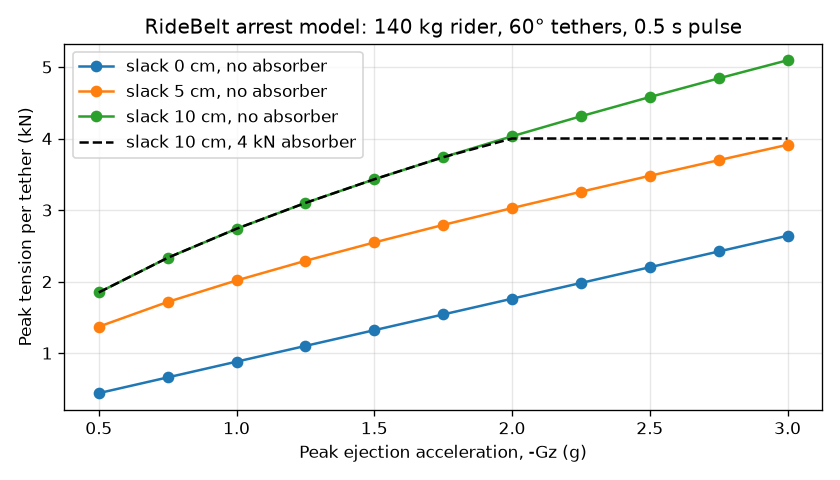
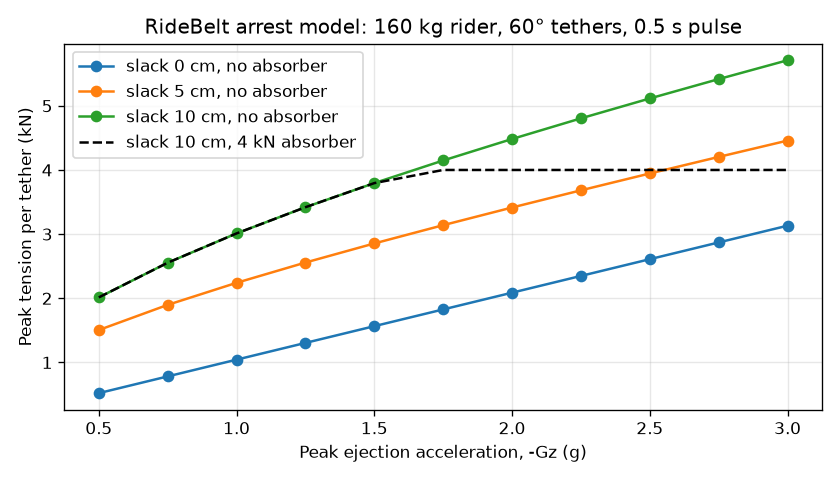
Hee-Lee Oss: Raise the design rider mass toward 160 kg (REQ-L2) and size to the 99th percentile of both sexes (REQ-F1)

diff --git a/docs/analysis/arrest_model.py b/docs/analysis/arrest_model.py
@@ -37,7 +37,7 @@ HERE = Path(__file__).parent
 
 @dataclass
 class Params:
-    m: float = 140.0          # kg, design rider mass (95th pct US male, heaviest age band; ride-acceleration-data.md)
+    m: float = 160.0          # kg, design rider mass (about the US civilian P99, NHANES; research/anthropometry-adult.md)
     A: float = 2.0            # g, peak net ejection acceleration (-Gz)
     T_p: float = 0.5          # s, pulse duration
     slack: float = 0.05       # m, free travel before the tethers take load
@@ -117,7 +117,7 @@ def angle_sweep() -> list[dict]:
     return rows
 
 
-def inverted_hang(m: float = 140.0) -> list[dict]:
+def inverted_hang(m: float = 160.0) -> list[dict]:
     """Static tether tension for a rider hanging inverted (-1 Gz), per tether."""
     return [{"theta_deg": th, "tension_per_tether_N": round(m * G / (2 * math.sin(math.radians(th))))}
             for th in (30, 45, 60, 75, 90)]
@@ -136,11 +136,11 @@ if __name__ == "__main__":
         w = csv.DictWriter(f, fieldnames=list(rows[0]))
         w.writeheader()
         w.writerows(rows)
-    print("## Main sweep (theta = 60 deg, m = 140 kg)\n")
+    print("## Main sweep (theta = 60 deg, m = 160 kg)\n")
     print(md(rows))
     print("\n## Tether angle sweep (A = 2 g, T_p = 0.5 s, slack = 5 cm)\n")
     print(md(angle_sweep()))
-    print("\n## Inverted hang, static (m = 140 kg)\n")
+    print("\n## Inverted hang, static (m = 160 kg)\n")
     print(md(inverted_hang()))
 
     try:
@@ -157,7 +157,7 @@ if __name__ == "__main__":
         ax.plot(np.linspace(0.5, 3.0, 11), peaks, "k--", label="slack 10 cm, 4 kN absorber")
         ax.set_xlabel("Peak ejection acceleration, -Gz (g)")
         ax.set_ylabel("Peak tension per tether (kN)")
-        ax.set_title("RideBelt arrest model: 140 kg rider, 60° tethers, 0.5 s pulse")
+        ax.set_title("RideBelt arrest model: 160 kg rider, 60° tethers, 0.5 s pulse")
         ax.grid(alpha=0.3)
         ax.legend()
         fig.tight_layout()

diff --git a/docs/analysis/load-analysis.md b/docs/analysis/load-analysis.md
@@ -9,7 +9,7 @@ Static case: rider mass m, peak ejection-direction acceleration a (in g).
     F_static = m × a × g
 
 Worked example, for illustration only. Replace with real ride data.
-- m = 136 kg (300 lb rider plus clothing; original placeholder, now replaced by **140 kg** design mass, see §2b)
+- m = 136 kg (300 lb rider plus clothing; original placeholder, since replaced by the **160 kg** design mass, see §2b)
 - a = 2 g in the ejection direction (placeholder; get the ride-specific −Gz or lateral peak from F2291 envelopes or measured accelerometer data)
 - F_static ≈ 136 × 2 × 9.81 ≈ **2.7 kN**, shared between two tethers
 
@@ -29,34 +29,34 @@ Design peak load (TBD) = F_static × dynamic factor. Breaking strength ≥ 5 × 
 | A4 | FEA of the RAS anchor and its mounting bracket | Any FEA package |
 | A5 | Wrap-strap friction and slip on round and square members | Test-driven, with a hand calculation (capstan equation) |
 
-## 2a. A2 results: arrest model v0.1 (2026-10-14)
-Script: [arrest_model.py](arrest_model.py). Full sweep: `arrest_results.csv`; plot: `arrest_sweep.png`. (The table below was produced at 136 kg; the script now defaults to the 140 kg design mass, about 3% higher. See §2b for the checked design cases.)
+## 2a. A2 results: arrest model v0.1 (first run 2026-10-14; re-run at 160 kg 2026-10-15)
+Script: [arrest_model.py](arrest_model.py). Full sweep: `arrest_results.csv`; plot: `arrest_sweep.png`. All figures below are for the **160 kg** design rider (task `ridebelt-requirements-003`; the first run used a 136 kg placeholder).
 
-**Model:** 1-DOF, 136 kg rider (whole-body mass, conservative); half-sine ejection pulse (−Gz) of amplitude A and duration T_p; two side tethers at angle θ; webbing about 8% elongation at 11 kN; body and belt compliance k_b = 100 kN/m and damping 1.5 kN·s/m (**assumptions to replace with ATD data**); optional energy absorber with a force cap.
+**Model:** 1-DOF, 160 kg rider (whole-body mass, conservative); half-sine ejection pulse (−Gz) of amplitude A and duration T_p; two side tethers at angle θ; webbing about 8% elongation at 11 kN; body and belt compliance k_b = 100 kN/m and damping 1.5 kN·s/m (**assumptions to replace with ATD data**); optional energy absorber with a force cap.
 
 **Findings**
 | Finding | Evidence | Design consequence |
 |---|---|---|
-| **Slack is the dominant variable.** Dynamic factor ≈ 1.0–1.3 with zero slack; ≈ 2–3.4 with 5–10 cm | Main sweep | Make slack as small as possible. **Promote the self-retracting, inertia-locking tether** from open question to the preferred design; tighten REQ-L4's goal to ≤ 2 cm |
-| Peak tension per tether ≤ **4.9 kN** across all swept cases (A ≤ 2.5 g, slack ≤ 10 cm, θ = 60°) | Main sweep | Preliminary **design load 6 kN per tether → MBS ≥ 30 kN** (5:1) |
-| **Tether angle:** tension rises steeply below 45° (4.8 kN at 30° vs 2.95 kN at 60°, 2 g case), and excursion barely changes | Angle sweep | Keep the REQ-L7 window at **45–75°**, with a 60–75° target |
-| Excursion is dominated by **body/belt compliance**, not webbing stretch: about 3 cm at zero slack, 10 cm or more at 5 cm slack | Excursion column; k_b sensitivity | REQ-L4 should limit **total excursion** (slack + stretch + body compression), not just slack. Measure k_b in ATD tests (T-D2); belt padding stiffness is a design lever |
-| Stiffer body/belt coupling plus slack → **higher** peak force (k_b 400 kN/m, 5 cm slack: 4.4 kN vs 2.95 kN at 100 kN/m) | k_b sensitivity | Don't over-stiffen the belt; padding helps |
-| A **4 kN** absorber only acts in the worst cases (2–2.5 g, short pulse, 10 cm slack), capping tension at 4 kN with < 3 cm of stroke | Main sweep | Fit an absorber at **about 4 kN per tether** as a load cap. It makes the design load independent of the ride's exact acceleration profile |
-| **Inverted hang** (−1 Gz, static): 0.94 kN per tether at 45°, 0.77 kN at 60° | Inverted-hang table | Release-under-load rating **2 kN** (REQ-O7) gives ≥ 2× margin |
-| Peak force on the rider's pelvis is ≤ about 8.5 kN in the worst case, with no absorber and 10 cm slack | Main sweep | **Needs ATD validation** (T-D2). It's in the range of car lap-belt loads, but pelvic and abdominal tolerance under this load direction is unverified |
+| **Slack is the dominant variable.** Dynamic factor ≈ 1.0–1.4 with zero slack; ≈ 1.3–3.2 with 5–10 cm | Main sweep | Make slack as small as possible. **Promote the self-retracting, inertia-locking tether** from open question to the preferred design; tighten REQ-L4's goal to ≤ 2 cm |
+| Peak tension per tether ≤ **5.6 kN** across all swept cases (A ≤ 2.5 g, slack ≤ 10 cm, θ = 60°, k_b 100 kN/m); ≤ 3.1 kN with zero slack | Main sweep | Preliminary **design load 6 kN per tether → MBS ≥ 30 kN** (5:1) |
+| **Tether angle:** tension rises steeply below 45° (5.6 kN at 30° vs 3.4 kN at 60°, 2 g case), and excursion barely changes | Angle sweep | Keep the REQ-L7 window at **45–75°**, with a 60–75° target |
+| Excursion is dominated by **body/belt compliance**, not webbing stretch: about 3–4 cm at zero slack, 11 cm or more at 5 cm slack | Excursion column; k_b sensitivity | REQ-L4 should limit **total excursion** (slack + stretch + body compression), not just slack. Measure k_b in ATD tests (T-D2); belt padding stiffness is a design lever |
+| Stiffer body/belt coupling plus slack → **higher** peak force (at 136 kg in the first run: k_b 400 kN/m with 5 cm slack gave 4.4 kN vs 2.95 kN at 100 kN/m; see §2b for the 160 kg stiff-body cases) | k_b sensitivity | Don't over-stiffen the belt; padding helps |
+| A **4 kN** absorber only acts in the worst cases (2.5 g, short pulse, 10 cm slack), capping tension at 4 kN with about 6 cm of stroke | Main sweep | Fit an absorber at **about 4 kN per tether** as a load cap. It makes the design load independent of the ride's exact acceleration profile |
+| **Inverted hang** (−1 Gz, static): 1.11 kN per tether at 45°, 0.91 kN at 60° | Inverted-hang table | Release-under-load rating **2 kN** (REQ-O7) gives about 1.8× margin at 45° (2.2× at 60°) |
+| Peak force on the rider's pelvis is ≤ about 9.7 kN in the worst case, with no absorber and 10 cm slack | Main sweep | **Needs ATD validation** (T-D2). It's in the range of car lap-belt loads, but pelvic and abdominal tolerance under this load direction is unverified |
 
 ### 2b. Check against researched design cases (2026-10-14)
-Inputs from [research/ride-acceleration-data.md](../research/ride-acceleration-data.md): design rider mass **140 kg** (95th-percentile U.S. male, heaviest age band), with a 160 kg upper-bound check; proposed first rating **−2.0 g ejection** (pulse from 0.3 s up to 3 s), plus −1.0 g sustained (inverted stop). The F2291 −Gz limits themselves are in the paid standard and still unverified.
+Inputs: design rider mass **160 kg**, about the US civilian 99th percentile (NHANES P99: 155.8 kg men and 146.6 kg women in 2021–2023; 159.2 kg and 155.9 kg in 2017–2020; see [research/anthropometry-adult.md](../research/anthropometry-adult.md)). It replaces the earlier 140 kg value, which was only the 95th percentile of the heaviest US male age band. Load cases from [research/ride-acceleration-data.md](../research/ride-acceleration-data.md): proposed first rating **−2.0 g ejection** (pulse from 0.3 s up to 3 s), plus −1.0 g sustained (inverted stop). The F2291 −Gz limits themselves are in the paid standard and still unverified.
 
 | Case (−2.0 g, 60° tethers) | Peak tension per tether |
 |---|---|
-| 140 kg, slack ≤ 2 cm, any pulse length, k_b 100–400 kN/m | ≤ 3.5 kN |
-| 160 kg, slack ≤ 2 cm, worst (0.3 s, stiff body) | 3.96 kN |
+| 160 kg, slack ≤ 2 cm, 0.3 s, k_b 100 kN/m | 3.1 kN |
+| 160 kg, slack ≤ 2 cm, worst (0.3 s, stiff body k_b 400 kN/m) | 3.96 kN |
 | 160 kg, **10 cm slack**, 0.3 s, stiff body, **no absorber** | **7.7 kN** (exceeds the 6 kN design load) |
 | 160 kg, 10 cm slack, with a **4 kN absorber** | 4.0 kN (absorber stroke 6 cm; excursion 18 cm, which fails REQ-L4) |
 
-**Conclusion:** the **6 kN design load / 30 kN MBS holds**, provided slack is ≤ 2 cm (REQ-L4) **and** a 4 kN absorber is fitted as a backstop against misuse. Both are now required. Long or sustained pulses (≥ 1 s) behave like static loading (dynamic factor ≈ 1), so short pulses with slack are the governing case. Pendulum rides repeat the −Gz load on every swing, so add a **fatigue load case** (cycles TBD) for tethers, absorbers and anchors (RAS-CT3). Drop-tower braking (about +5 g into the seat) governs the **center strap's anti-submarine function**, not tether strength. Check it in T-D2.
+**Conclusion (unchanged by the 160 kg design mass):** the **6 kN design load / 30 kN MBS holds**, provided slack is ≤ 2 cm (REQ-L4) **and** a 4 kN absorber is fitted as a backstop against misuse. Both are now required. Long or sustained pulses (≥ 1 s) behave like static loading (dynamic factor ≈ 1), so short pulses with slack are the governing case. Pendulum rides repeat the −Gz load on every swing, so add a **fatigue load case** (cycles TBD) for tethers, absorbers and anchors (RAS-CT3). Drop-tower braking (about +5 g into the seat) governs the **center strap's anti-submarine function**, not tether strength. Check it in T-D2.
 
 **Limits of this model:** 1-DOF only (no rotation or jackknifing, no lateral or longitudinal loads, no submarining); assumed body compliance; pulse shapes are idealized. A3 (multibody/ATD simulation) and T-D2 (sled tests) replace it.
 

diff --git a/docs/research/ride-acceleration-data.md b/docs/research/ride-acceleration-data.md
@@ -151,7 +151,7 @@ Method: take the largest credible published or claimed −Gz for the class and r
 
 Envelope suggestion for the first prototype rating **[estimate]**: design to **−2.0 Gz** plus **−1.0 Gz sustained inverted**, ±2 g lateral, and 2 g forward. That covers every class above except +Gz submarining checks. It matches the 2 g placeholder in load-analysis.md, so no change is needed there yet.
 
-Example static load [derived]: m = 140 kg (see §5) × 2.0 g × 9.81 = **2.75 kN** total, shared by two tethers. Per REQ-L5 each tether alone must carry it.
+Example static load [derived]: m = 160 kg (see §5) × 2.0 g × 9.81 = **3.14 kN** total, shared by two tethers. Per REQ-L5 each tether alone must carry it.
 
 Open items before these numbers can be used:
 1. Buy F2291-26a and read the Section 6 −Gz, Gx and Gy envelopes and the restraint-class figure (Section 5). Replace the "highest found" column with the standard's limits: the ride itself is designed up to the standard's limit, not to published examples.
@@ -179,11 +179,11 @@ CDC/NCHS, *Anthropometric Reference Data for Children and Adults: United States,
 - Many major parks use **restraint fit** rather than a posted weight (e.g., Universal's Forbidden Journey has no maximum weight; the restraint must close) ([AJC](https://www.ajc.com/travel/how-big-too-big-some-theme-park-riders-fear-the-walk-shame/YN7JDzapFtPgi4cRAdjIPJ/)). Signage is not required unless the manufacturer's manual says so ([Fox 35](https://fox35orlando.com/news/state-senator-looking-to-take-action-to-make-amusement-rides-more-safe)).
 - A forum post quotes the withdrawn F1159 as using a 170 lb adult design weight or 12 lb per inch of hip width, whichever is greater ([CoasterBuzz](https://coasterbuzz.com/Forums/PostLink/398020)). This is **unverified**.
 
-### 5.3 Recommendation (preliminary)
-- **Design rider mass m = 140 kg** for REQ-L2. This is the 95th percentile of the heaviest U.S. male age band (139.9 kg) and covers the all-ages 95th (130.3 kg) plus about 4 kg of clothing and harness **[estimate]**. It also exceeds the posted ride limits found (130–136 kg).
-- **Upper rated user mass on the label: 140 kg.** Riders above this are outside the rating, even if the ride admits them by restraint fit.
-- REQ-F1 asks for sizing to the 99th-percentile male. Sizing (girth) and mass rating are separate. If marketing wants the mass rating to reach about the 99th percentile, use **m = 160 kg [estimate]**, which raises loads by 14%.
-- This replaces the 136 kg placeholder in load-analysis.md §1, after engineer review.
+### 5.3 Recommendation (preliminary; updated 2026-10-15)
+- **Design rider mass m = 160 kg** for REQ-L2. This is about the US civilian 99th-percentile body mass from NHANES (P99 155.8 kg men and 146.6 kg women in 2021–2023; 159.2 kg and 155.9 kg in 2017–2020), from [anthropometry-adult.md](anthropometry-adult.md). It replaces the earlier 140 kg value (the 95th percentile of the heaviest US male age band, 139.9 kg), which the civilian data showed to be too low. 160 kg leaves little margin for clothing above the 2017–2020 male P99 **[estimate]**. It is well above the posted ride limits found (130–136 kg).
+- **Upper rated user mass on the label: 160 kg.** Riders above this are outside the rating, even if the ride admits them by restraint fit.
+- Sizing (girth) and mass rating are separate. REQ-F1 now asks for sizing to the 1st–99th percentile of **both** sexes, because the largest hips are female.
+- Effect on loads: the arrest model was re-run at 160 kg (load-analysis.md §2a–2b). The 6 kN design load and 30 kN MBS still hold with slack ≤ 2 cm and the 4 kN absorber.
 
 ## 6. Sources not yet obtained (to buy or request)
 - ASTM F2291-26a (Sections 5 and 6, Annex A1, Appendix X1).

diff --git a/docs/requirements.md b/docs/requirements.md
@@ -9,7 +9,7 @@ Every requirement is numbered and testable. "TBD" values are set during Phase 1 
 | ID | Requirement | Verification |
 |---|---|---|
 | REQ-L1 | The system shall retain a rider through the worst sustained acceleration in the ASTM F2291 envelope for the ride class it is rated for, in every axis (±Gx, ±Gy, +Gz, and −Gz, i.e., ejection) | T-D1, T-D2 |
-| REQ-L2 | Minimum breaking strength of every load-path component ≥ 5 × design peak load. **Preliminary design load: 6 kN per tether → MBS ≥ 30 kN.** Basis: 140 kg design rider (160 kg checked), −2.0 g ejection rating, slack ≤ 2 cm, and a **required** per-tether energy absorber capping tension at 4 kN (load-analysis §2a–2b). Confirm against the F2291-26a limits and measured ride data | T-S1, T-S2 |
+| REQ-L2 | Minimum breaking strength of every load-path component ≥ 5 × design peak load. **Preliminary design load: 6 kN per tether → MBS ≥ 30 kN.** Basis: **160 kg design rider**, about the US civilian 99th-percentile body mass (NHANES P99 155.8–159.2 kg men, 146.6–155.9 kg women; [research/anthropometry-adult.md](research/anthropometry-adult.md)), −2.0 g ejection rating, slack ≤ 2 cm, and a **required** per-tether energy absorber capping tension at 4 kN (load-analysis §2a–2b). Confirm against the F2291-26a limits and measured ride data | T-S1, T-S2 |
 | REQ-L3 | Peak force transmitted to the rider during arrest shall stay below injury thresholds (pelvis, lumbar, abdomen; plus shoulder and thorax with the Shoulder Module or Integrated Harness). Thresholds TBD from ATD criteria | T-D2 |
 | REQ-L6 | Under every rated load case, the Hip Belt shall stay on the pelvis. Belt migration above the pelvic bones onto the abdomen ≤ TBD mm, measured on an ATD | T-D2, T-D3 |
 | REQ-L7 | Tether anchor angle shall load the belt down and rearward (TBD 45–75° from horizontal). The RAS anchor position and wrap-strap application guides shall enforce this | T-D3, RAS-CT0 |
@@ -21,7 +21,7 @@ Every requirement is numbered and testable. "TBD" values are set during Phase 1 
 ## Rider fit
 | ID | Requirement | Verification |
 |---|---|---|
-| REQ-F1 | Harness sizes shall cover 5th-percentile female to 99th-percentile male torso and thigh girth (sizes TBD) | T-F2 |
+| REQ-F1 | Belt and harness sizes shall fit the **1st to 99th percentile of both sexes** for hip and waist girth, thigh girth and torso length. Sizing basis: NHANES civilian girths (hip circumference P1–P99 about 84–156 cm; the largest hips are female) and ANSUR II for seated, thigh and torso dimensions. **ANSUR II upper percentiles are lower bounds**, because the military sample under-represents large bodies ([research/anthropometry-adult.md](research/anthropometry-adult.md)). Sizes TBD (`ridebelt-sizing-001`) | T-F2 |
 | REQ-F2 | Minimum rider height and mass for the Hip Belt and for each module: TBD. No use below the ride's own minimum | Labeling review |
 | REQ-F4 | The Hip Belt shall have a built-in position guide (e.g., contoured shape and a visual marker at the pelvic bones), so the wearer and operator can confirm low positioning in < 5 s | T-F3 |
 | REQ-F3 | A fit check (gap gauge or "two-finger" rule) shall be possible in < 10 s | T-F3 |

diff --git a/PLAN.md b/PLAN.md
@@ -45,7 +45,7 @@ In scope: everything under [docs/](docs/). Out of scope for now: physical manufa
 | Load cases & arrest model | [docs/analysis/](docs/analysis/), [docs/research/ride-acceleration-data.md](docs/research/ride-acceleration-data.md) |
 | Test plan & traceability | [docs/testing/test-plan.md](docs/testing/test-plan.md) |
 
-Key numbers (preliminary): 140 kg design rider; −2.0 g ejection rating plus −1.0 g sustained; 6 kN design load per tether → 30 kN MBS; slack ≤ 2 cm; 4 kN energy absorber; tethers at 45–75°; release under a 2 kN load.
+Key numbers (preliminary): 160 kg design rider (about the civilian P99); −2.0 g ejection rating plus −1.0 g sustained; 6 kN design load per tether → 30 kN MBS; slack ≤ 2 cm; 4 kN energy absorber; tethers at 45–75°; release under a 2 kN load.
 
 ## Data, licensing & compliance
 - Content: CC BY 4.0 ([LICENSE](LICENSE)). Code: MIT ([LICENSE-CODE](LICENSE-CODE)). **No patents will be filed**, and publication serves as defensive publication ([docs/business/licensing-model.md](docs/business/licensing-model.md)).

diff --git a/docs/design/ras-latch.md b/docs/design/ras-latch.md
@@ -69,7 +69,7 @@ Two **independent** principles, so that any single fault is detected:
 
 ## 6. Load basis
 From the arrest model (A2, §2a–2b), with 60° tethers:
-- 140 kg design rider at a −2.0 g rating with slack ≤ 2 cm: ≤ 3.5 kN. A 160 kg rider: ≤ 4.0 kN. With 10 cm slack (misuse) and no absorber it can reach 7.7 kN, so the 4 kN absorber is required.
+- 160 kg design rider (about the civilian P99) at a −2.0 g rating with slack ≤ 2 cm: ≤ 4.0 kN. With 10 cm slack (misuse) and no absorber it can reach 7.7 kN, so the 4 kN absorber is required.
 - **Design load per tether: 6 kN** (preliminary; check against measured ride data). MBS ≥ **30 kN** (5:1). No permanent set at 12 kN (2×).
 - Center anchor (anchor mode): it does positioning only, but is rated the same, so one latch part number fits all anchor positions.
 
